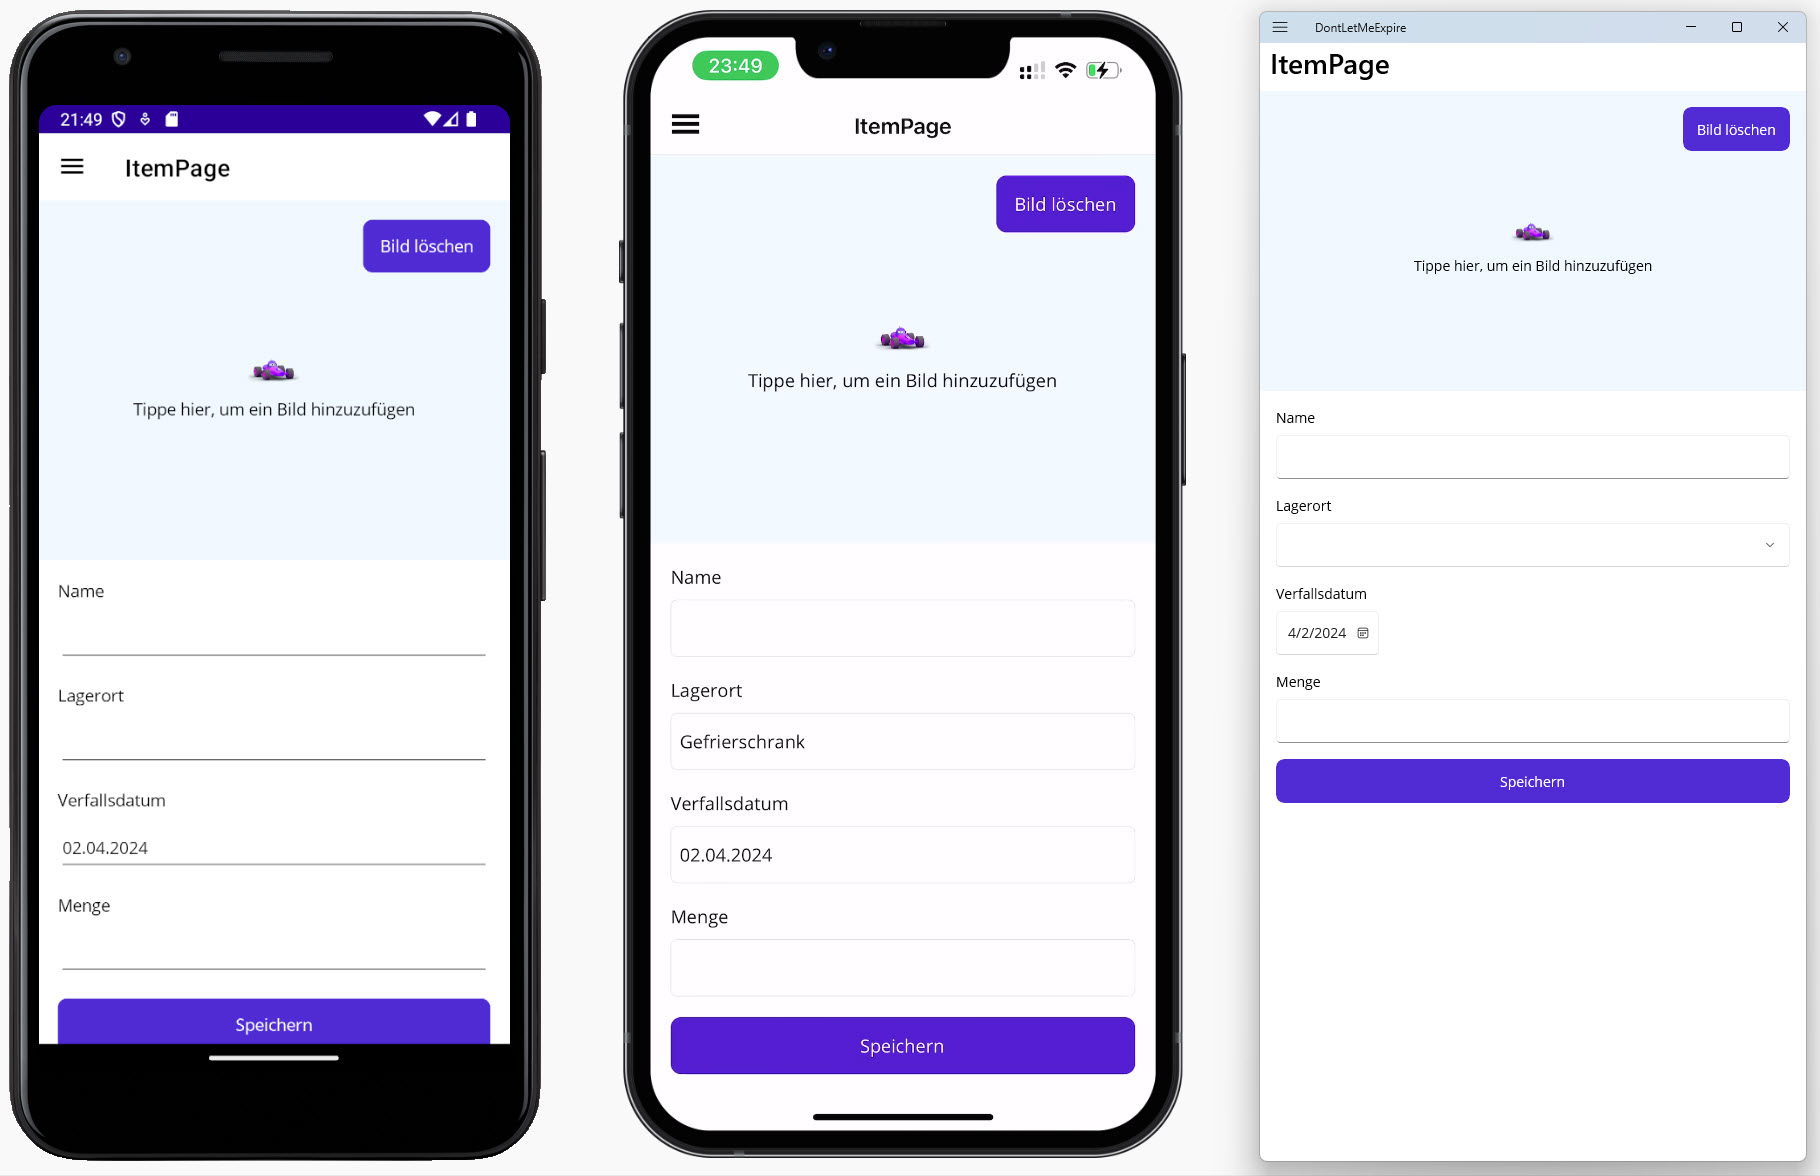
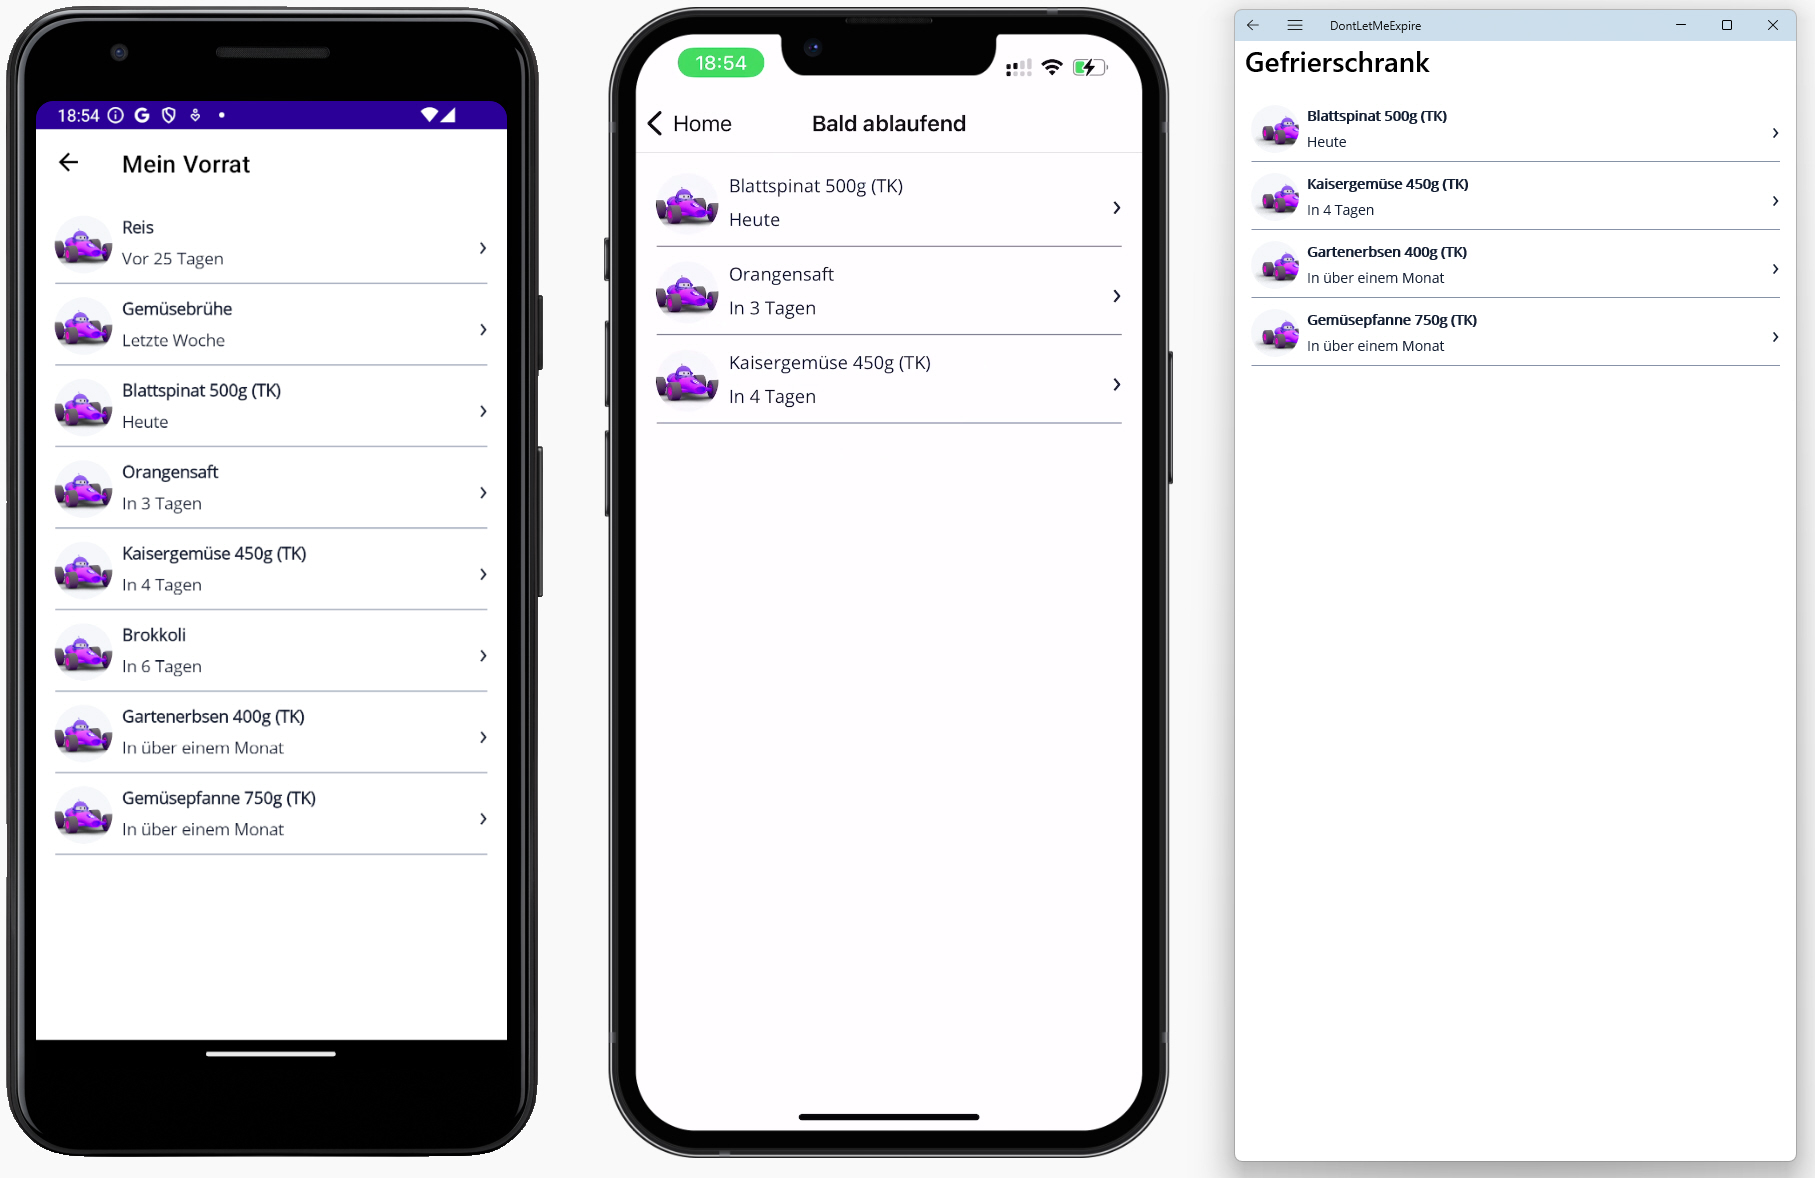
11: Beginn

Changed region(s): [[0.0, 0.0, 1.0, 1.0], [0.9256, 0.0, 0.9873, 0.0306]]

diff --git a/lab.md b/lab.md
@@ -1,8 +1,21 @@
-# Übung 10: BindableLayouts
+# Übung 11: CollectionView
 
 - Öffnen Sie die App `DontLetMeExpire` in Visual Studio.
-- Legen Sie in Ihrem `MainViewModel` ein Feld vom Typ `IStorageLocationService` an und initialisieren Sie es im Konstruktor
-- Legen Sie in Ihrem `MainViewModel` eine Eigenschaft vom Typ `IEnumerable<StorageLocationWithItemCount>` mit dem Namen `StorageLocations` an.
-- Initialisieren Sie diese Liste über die Methode `GetWithItemCount` des `StorageLocationSerivce` in der Methode `InitializeAsync`
-- Bearbeiten Sie die Datei `MainPage.xaml` und ersetzen Sie die statische Liste der Lagerorte durch ein `BindableLayout`, welches Sie an die Eigenschaft `StorageLocations` binden
-- Initialisieren Sie in der Klasse `DummyStorageLocationService` im Konstruktor das Feld `_storageLocations` wie folgt: `_storageLocations = [.. DummyData.Locations];`
+- Legen Sie eine neue .NET MAUI ContentPage (XAML) mit dem Namen `ItemsPage.xaml` im Ordner `Views` an
+- Legen Sie im Ordner `ViewModels` ein `ViewModel` mit dem Namen `ItemsViewModel` an.
+- Lassen Sie die Klasse `ItemsViewModel`von `ViewModelBase` erben.
+- Legen Sie im ItemsViewModel die  Eigenschaft `ObservableCollection<Item> Items` an.
+- Injizieren Sie den `StorageLocationService` und den `ItemService` in Ihr ViewModel
+- Erstellen Sie eine Methode `InitzializeAsync` und laden Sie dort alle Einträge über den `ItemService`
+- Verbinden Sie `ItemsPage` und `ItemsViewModel` miteinander
+- Stellen Sie die Einträge in der Datei `ItemsPage.xaml` über einen CollectionView gemäß des Screenshots dar.
+- Registrieren Sie `ItemsPage` und `ItemsViewModel` in der Klasse `MauiProgram`
+- Registrieren Sie eine Route zur `ItemsPage` in der Datei `AppShell.xaml.cs`
+- Navigieren Sie von der Kachel **"Mein Vorrat"** der `MainPage` über einen `TapGestureRecognizer` zur Seite `ItemsPage`
+- Bonus 1: Datumsanzeige optimieren
+  - Kopieren Sie den Ordner `Converters` aus den Beispieldateien inklusive Inhalt in Ihr Projekt
+  - Nutzen Sie den `DateToRelativeStringConverter` um statt eines konkreten Datums eine relative Zeiteingabe anzuzuzeigen, also zum Beispiel **letze Woche** statt **12.09.2024**
+- Bonus 2: Navigieren Sie von den anderen Kacheln der `MainPage` (Läuft bald ab, Läuft heute ab, Abgelaufen) zur `ItemsPage` und laden Sie die entsprechenden Daten
+- Bonus 3: Navigieren Sie von den Lagerorten der Seite `MainPage` zur `ItemsPage` und laden Sie nur die zum Lagerort passenden Daten.
+
+![Liste der Vorräte](Images/lab_b.jpg)
